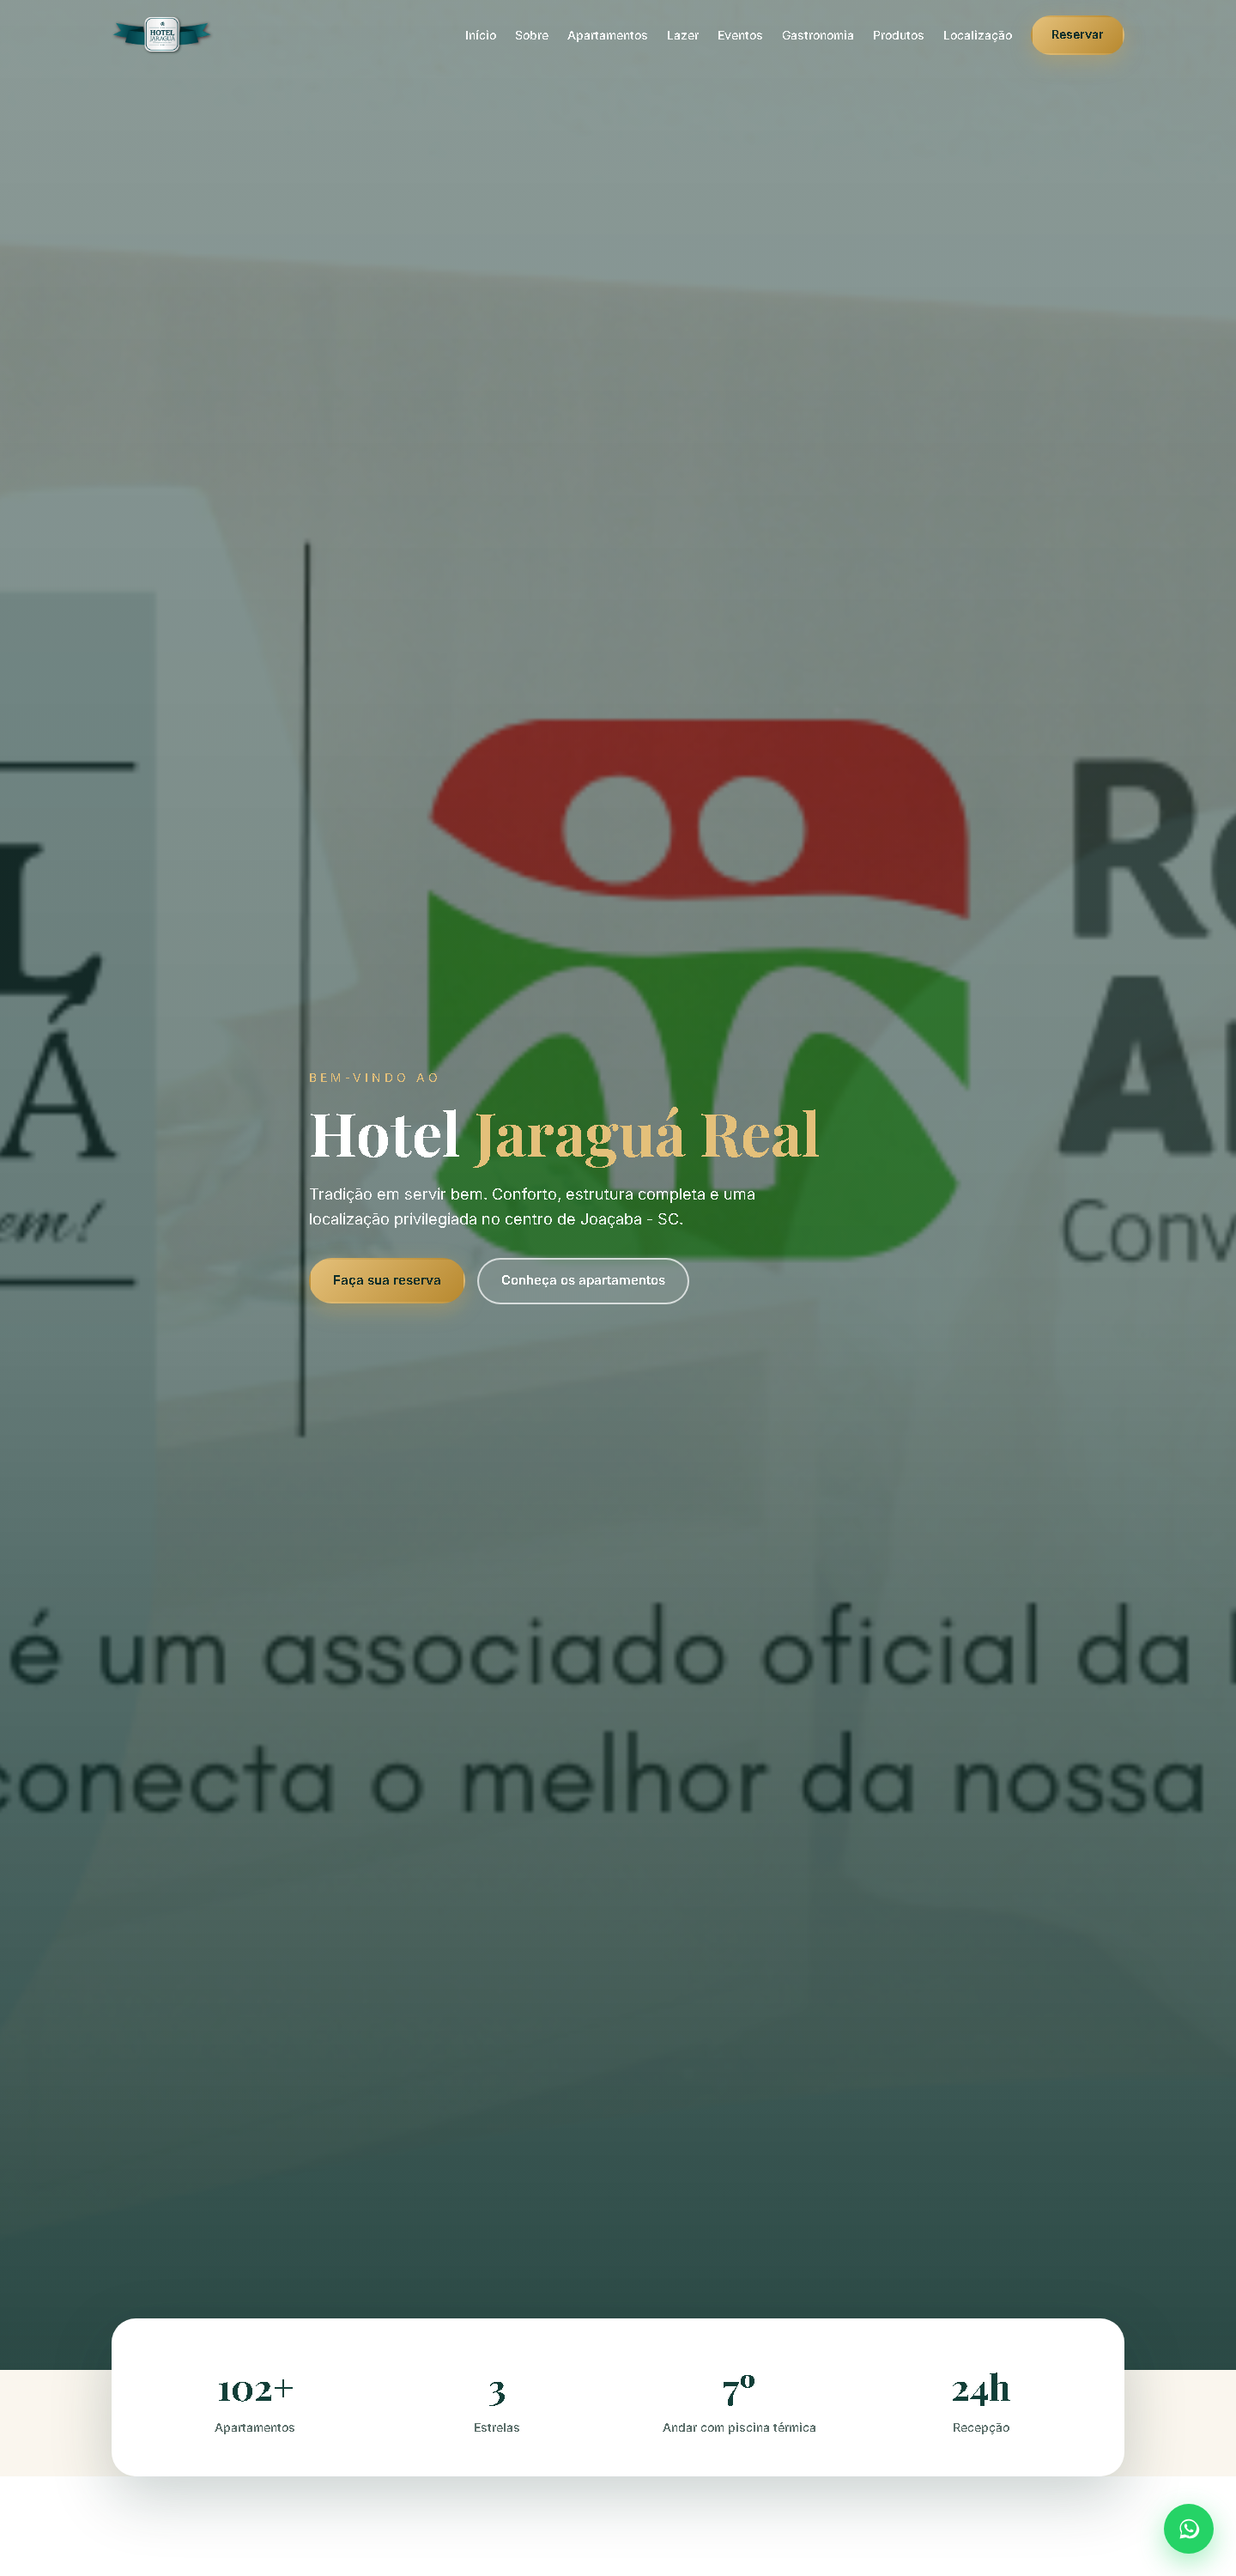
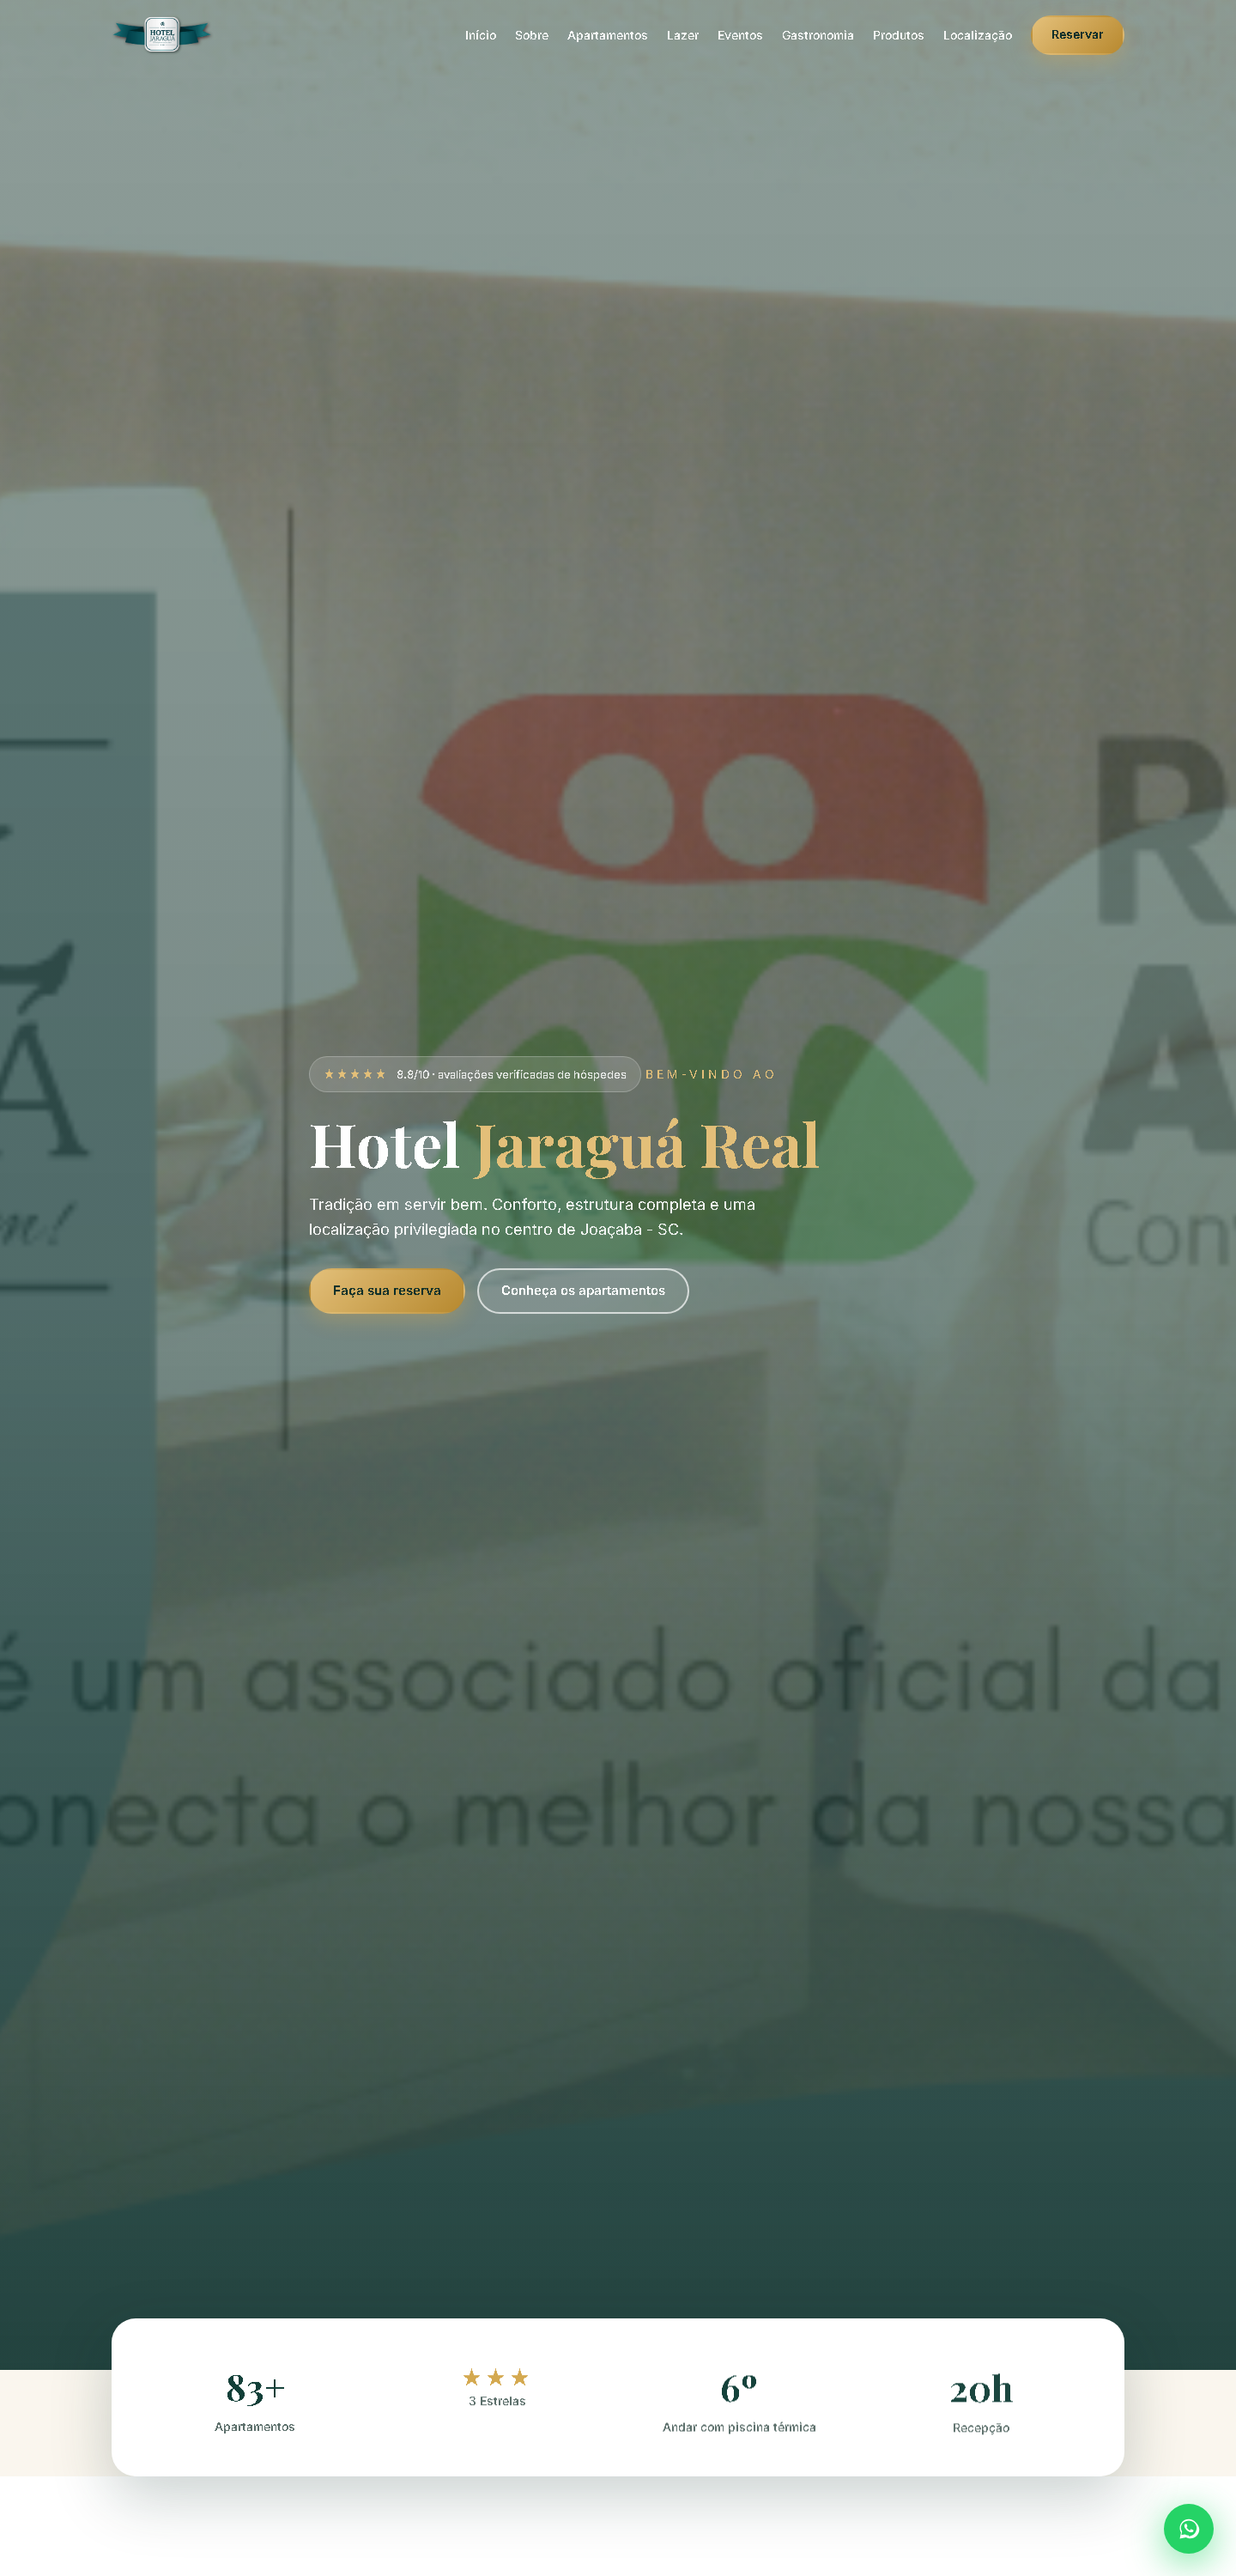
Reforça credibilidade: contadores animados, selo avaliação 8.8/10, trust scores, shimmer premium

diff --git a/index.html b/index.html
@@ -49,6 +49,10 @@
             <div class="hero__overlay"></div>
         </div>
         <div class="hero__content container" data-animate="fade-up">
+            <div class="hero__rating">
+                <span class="hero__rating-stars">&#9733;&#9733;&#9733;&#9733;&#9733;</span>
+                <span class="hero__rating-text">8.8/10 · avaliações verificadas de hóspedes</span>
+            </div>
             <span class="hero__eyebrow">Bem-vindo ao</span>
             <h1 class="hero__title">Hotel <span>Jaraguá Real</span></h1>
             <p class="hero__subtitle">Tradição em servir bem. Conforto, estrutura completa e uma localização privilegiada no centro de Joaçaba - SC.</p>
@@ -65,19 +69,19 @@
         <div class="container">
             <div class="highlights__grid">
                 <div class="highlights__item" data-animate="fade-up" data-delay="0">
-                    <span class="highlights__num">102+</span>
+                    <span class="highlights__num"><span class="count" data-count="102">0</span>+</span>
                     <span class="highlights__label">Apartamentos</span>
                 </div>
                 <div class="highlights__item" data-animate="fade-up" data-delay="100">
-                    <span class="highlights__num">3</span>
-                    <span class="highlights__label">Estrelas</span>
+                    <span class="highlights__num--stars">&#9733;&#9733;&#9733;</span>
+                    <span class="highlights__label">3 Estrelas</span>
                 </div>
                 <div class="highlights__item" data-animate="fade-up" data-delay="200">
-                    <span class="highlights__num">7º</span>
+                    <span class="highlights__num"><span class="count" data-count="7">0</span>º</span>
                     <span class="highlights__label">Andar com piscina térmica</span>
                 </div>
                 <div class="highlights__item" data-animate="fade-up" data-delay="300">
-                    <span class="highlights__num">24h</span>
+                    <span class="highlights__num"><span class="count" data-count="24">0</span>h</span>
                     <span class="highlights__label">Recepção</span>
                 </div>
             </div>
@@ -93,6 +97,29 @@
                 <span class="sobre__badge">Desde <strong>2010</strong> servindo bem</span>
             </div>
             <div class="sobre__content" data-animate="fade-left">
+                <div class="sobre__trust">
+                    <div class="sobre__trust-item">
+                        <span class="sobre__trust-score">8.8</span>
+                        <div>
+                            <strong>Nota dos hóspedes</strong>
+                            <span class="sobre__trust-stars">&#9733;&#9733;&#9733;&#9733;&#9733;</span>
+                        </div>
+                    </div>
+                    <div class="sobre__trust-item">
+                        <span class="sobre__trust-score">9.5</span>
+                        <div>
+                            <strong>Localização</strong>
+                            <span class="sobre__trust-stars">&#9733;&#9733;&#9733;&#9733;&#9733;</span>
+                        </div>
+                    </div>
+                    <div class="sobre__trust-item">
+                        <span class="sobre__trust-score">9.6</span>
+                        <div>
+                            <strong>Atendimento</strong>
+                            <span class="sobre__trust-stars">&#9733;&#9733;&#9733;&#9733;&#9733;</span>
+                        </div>
+                    </div>
+                </div>
                 <span class="section-tag">Sobre o hotel</span>
                 <h2 class="section-title">Tradição em <span class="gradient-text">servir bem</span></h2>
                 <p class="section-text">Nossa missão é satisfazer as necessidades de nossos clientes superando suas expectativas. Estamos sempre investindo em melhorias e inovação para que nossos hóspedes tenham uma ótima estada.</p>

diff --git a/src/css/style.css b/src/css/style.css
@@ -77,6 +77,24 @@ ul { list-style: none; }
     background: linear-gradient(135deg, var(--gold-400), var(--gold-600));
     color: var(--green-950);
     box-shadow: 0 8px 24px rgba(212, 169, 79, 0.35);
+    position: relative;
+    overflow: hidden;
+}
+.btn--gold::after {
+    content: "";
+    position: absolute;
+    top: 0;
+    left: -80%;
+    width: 50%;
+    height: 100%;
+    background: linear-gradient(100deg, transparent, rgba(255, 255, 255, 0.55), transparent);
+    transform: skewX(-20deg);
+    animation: shimmer 3.2s var(--ease) infinite;
+}
+@keyframes shimmer {
+    0% { left: -80%; }
+    55% { left: 130%; }
+    100% { left: 130%; }
 }
 .btn--gold:hover { transform: translateY(-3px); box-shadow: 0 14px 34px rgba(212, 169, 79, 0.45); }
 .btn--dark {
@@ -214,6 +232,13 @@ ul { list-style: none; }
     margin-bottom: 30px;
 }
 .hero__actions { display: flex; gap: 14px; flex-wrap: wrap; }
+.hero__rating { display: inline-flex; align-items: center; gap: 10px; background: rgba(255,255,255,0.14); border: 1px solid rgba(255,255,255,0.25); backdrop-filter: blur(8px); padding: 8px 16px; border-radius: 100px; margin-bottom: 20px; animation: floatIn 0.9s var(--ease) both; }
+.hero__rating-stars { color: var(--gold-400); letter-spacing: 2px; font-size: 0.95rem; }
+.hero__rating-text { color: rgba(255,255,255,0.9); font-size: 0.82rem; font-weight: 500; }
+@keyframes floatIn {
+    from { opacity: 0; transform: translateY(16px) scale(0.95); }
+    to { opacity: 1; transform: none; }
+}
 .hero__dots {
     position: absolute;
     bottom: 26px; left: 50%;
@@ -264,6 +289,13 @@ ul { list-style: none; }
     font-size: 2.6rem;
     font-weight: 700;
     color: var(--green-900);
+}
+.highlights__num--stars {
+    font-size: 1.8rem;
+    letter-spacing: 4px;
+    color: var(--gold-500);
+    line-height: 1;
+    padding-top: 8px;
 }
 .highlights__label {
     font-size: 0.85rem;
@@ -368,6 +400,34 @@ ul { list-style: none; }
     font-size: 0.75rem;
     font-weight: 700;
 }
+.sobre__trust {
+    display: flex;
+    gap: 18px;
+    flex-wrap: wrap;
+    margin-bottom: 24px;
+}
+.sobre__trust-item {
+    display: flex;
+    align-items: center;
+    gap: 12px;
+    background: var(--cream);
+    border: 1px solid var(--border);
+    padding: 14px 20px;
+    border-radius: var(--radius);
+    flex: 1;
+    min-width: 170px;
+    transition: transform 0.3s var(--ease), box-shadow 0.3s;
+}
+.sobre__trust-item:hover { transform: translateY(-4px); box-shadow: var(--shadow-sm); }
+.sobre__trust-score {
+    font-family: var(--font-serif);
+    font-size: 2rem;
+    font-weight: 700;
+    color: var(--green-900);
+    line-height: 1;
+}
+.sobre__trust-item strong { display: block; font-size: 0.85rem; color: var(--green-950); margin-bottom: 4px; }
+.sobre__trust-stars { color: var(--gold-500); font-size: 0.85rem; letter-spacing: 2px; }
 
 /* ============ APARTAMENTOS ============ */
 .apartamentos__grid {

diff --git a/src/js/main.js b/src/js/main.js
@@ -80,6 +80,37 @@
         animateables.forEach((el) => el.classList.add("in-view"));
     }
 
+    // ===== Animated counters (destaques) =====
+    const counters = $$(".count");
+    const animateCount = (el) => {
+        const target = parseInt(el.dataset.count, 10) || 0;
+        const dur = 1600;
+        const start = performance.now();
+        const tick = (now) => {
+            const p = Math.min((now - start) / dur, 1);
+            const eased = 1 - Math.pow(1 - p, 3);
+            el.textContent = Math.round(target * eased);
+            if (p < 1) requestAnimationFrame(tick);
+        };
+        requestAnimationFrame(tick);
+    };
+    if ("IntersectionObserver" in window && counters.length) {
+        const cio = new IntersectionObserver(
+            (entries) => {
+                entries.forEach((e) => {
+                    if (e.isIntersecting) {
+                        animateCount(e.target);
+                        cio.unobserve(e.target);
+                    }
+                });
+            },
+            { threshold: 0.6 }
+        );
+        counters.forEach((c) => cio.observe(c));
+    } else {
+        counters.forEach((c) => { c.textContent = c.dataset.count; });
+    }
+
     // ===== Smooth anchor (offset do navbar) =====
     $$('a[href^="#"]').forEach((a) => {
         a.addEventListener("click", (e) => {
